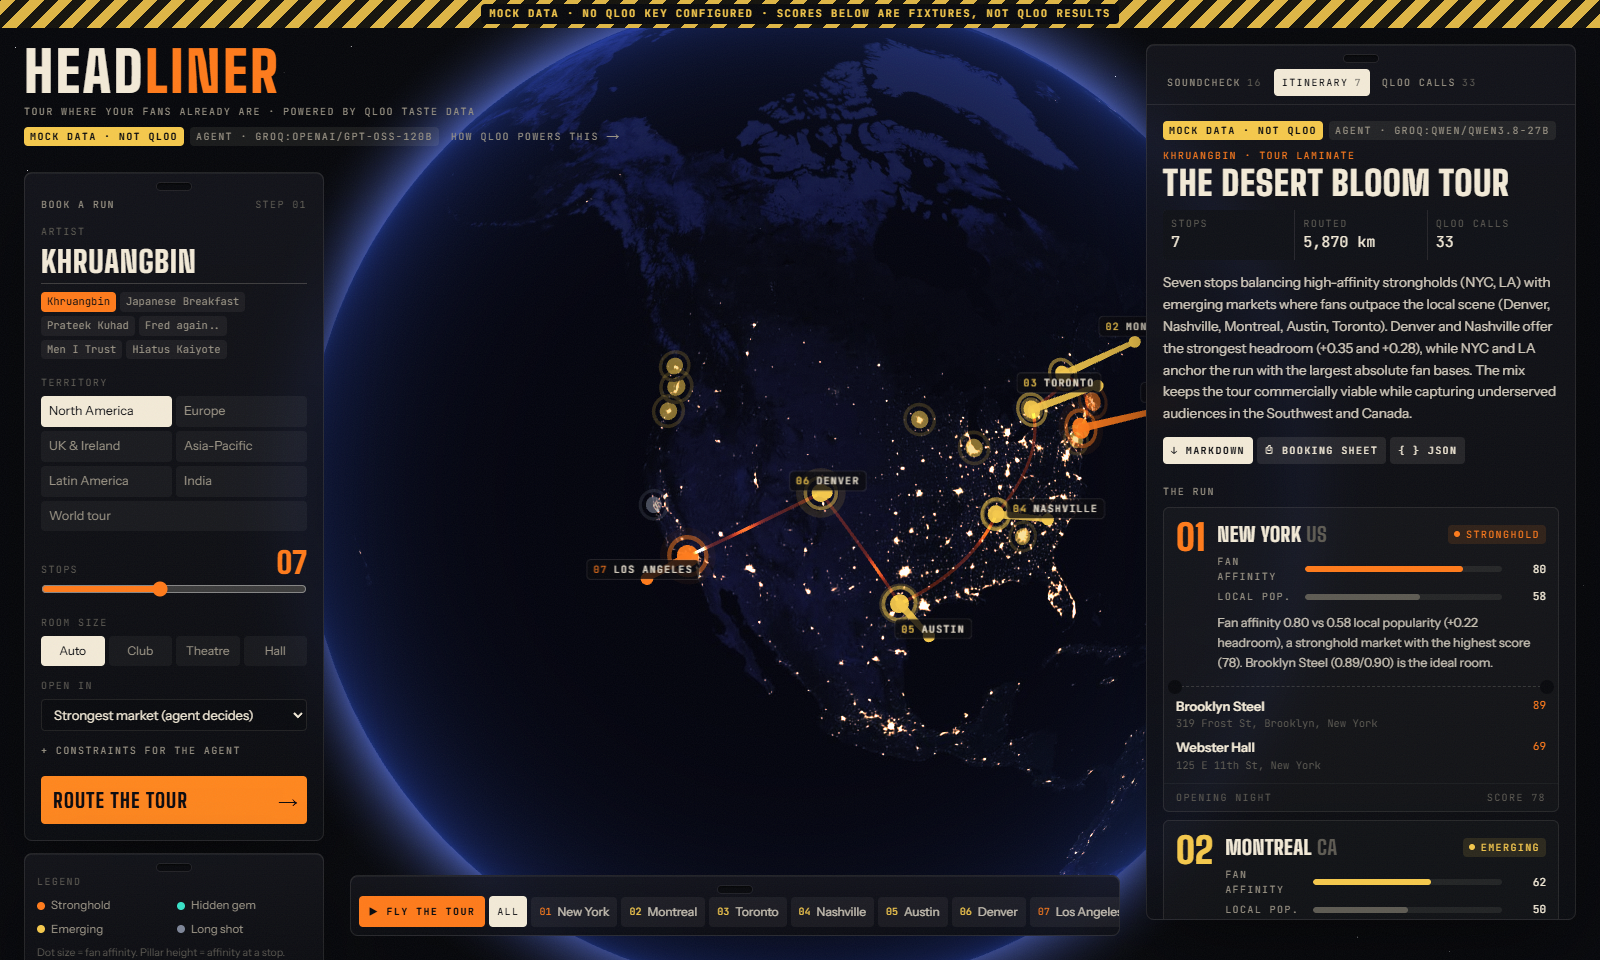
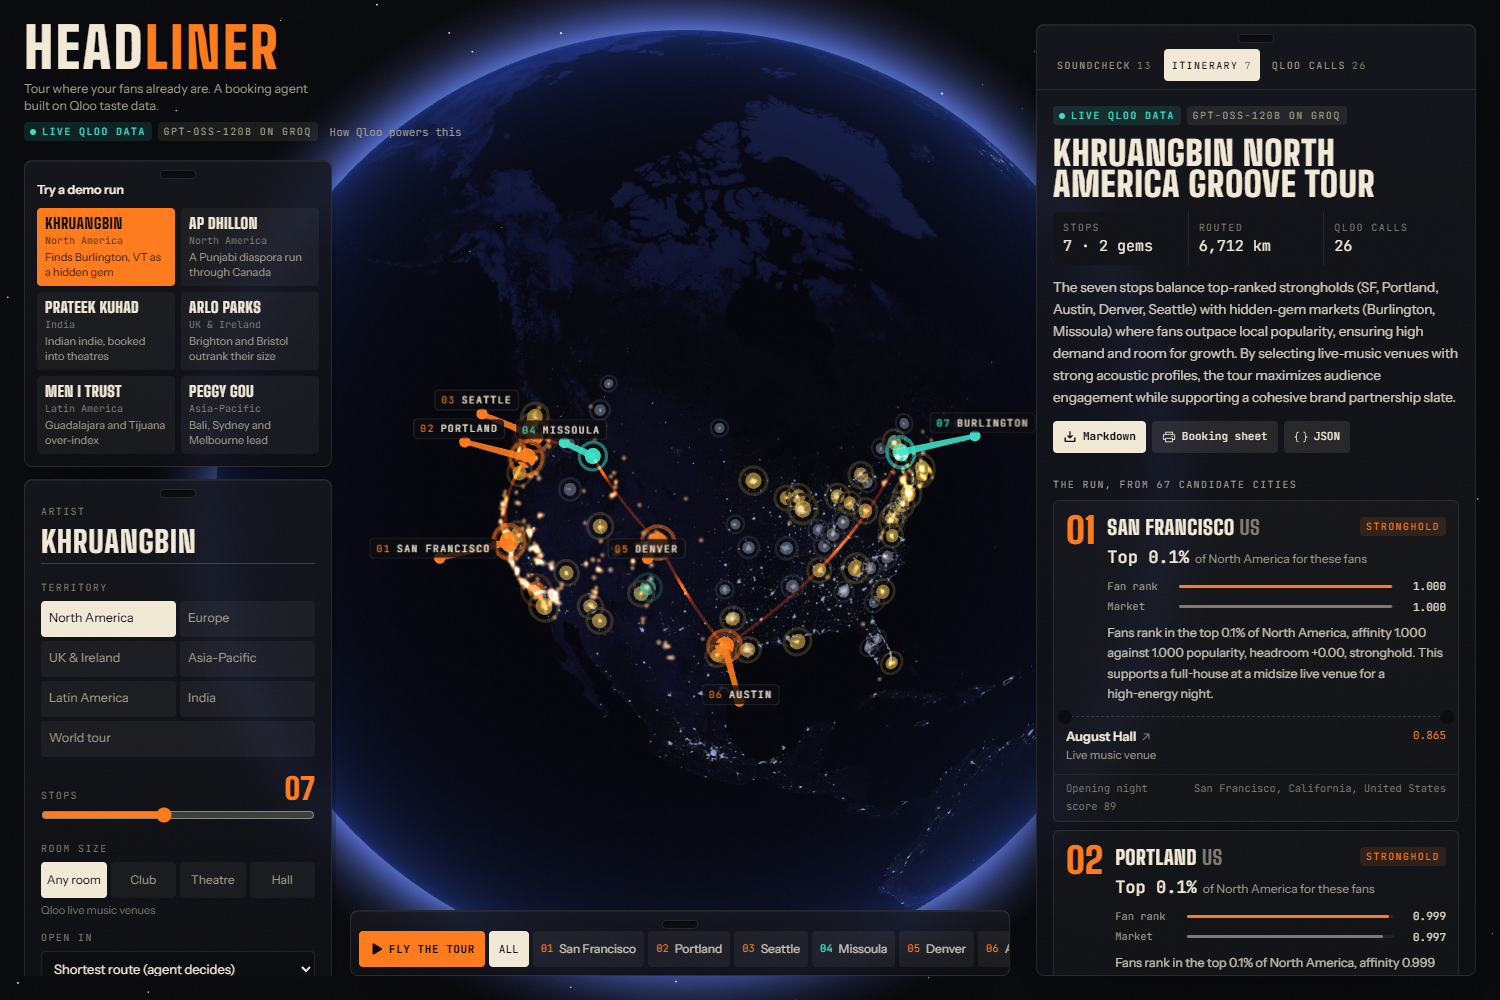
feat(globe): frame runs between their farthest stops and hold still once planned; live-data screenshots and social preview

diff --git a/src/components/globe/Globe.tsx b/src/components/globe/Globe.tsx
@@ -535,6 +535,25 @@ function CameraRig({ target, distance, idle }: { target: THREE.Vector3; distance
   return null;
 }
 
+/**
+ * Aim between the run's two farthest-apart stops (blended with the average), so a run with most stops
+ * at one end still fits in frame.
+ */
+function framingDirection(stops: GlobeStop[]): THREE.Vector3 {
+  const centroid = centroidDirection(stops);
+  const dirs = stops.map((s) => latLngToVec3(s.lat, s.lng).normalize());
+  let pair: [number, number] = [0, 0];
+  let widest = -1;
+  for (let i = 0; i < dirs.length; i++)
+    for (let j = i + 1; j < dirs.length; j++) {
+      const a = dirs[i].angleTo(dirs[j]);
+      if (a > widest) [widest, pair] = [a, [i, j]];
+    }
+  const mid = dirs[pair[0]].clone().add(dirs[pair[1]]);
+  if (stops.length < 2 || mid.lengthSq() < 1e-3) return centroid;
+  return mid.normalize().multiplyScalar(0.7).add(centroid.multiplyScalar(0.3)).normalize();
+}
+
 /** Shift the projection so the globe's centre sits in the space between the side panels. */
 function ViewOffset({ inset }: { inset?: { left: number; right: number } }) {
   const camera = useThree((s) => s.camera) as THREE.PerspectiveCamera;
@@ -557,7 +576,7 @@ function Scene({ markers, stops, heat, focusIndex, home, onSelectStop, idle, ins
       const v = latLngToVec3(focus.lat - 6, focus.lng, 1).normalize();
       return v;
     }
-    if (stops.length) return centroidDirection(stops);
+    if (stops.length) return framingDirection(stops);
     return latLngToVec3(home.lat, home.lng).normalize();
   }, [focus, stops, home.lat, home.lng]);
   // Pull back for spread-out runs (a world tour) and for narrow phone viewports.

diff --git a/src/components/Headliner.tsx b/src/components/Headliner.tsx
@@ -196,7 +196,7 @@ export default function Headliner({ qlooMode, agentLabel }: { qlooMode: "live" |
             focusIndex={focus}
             home={home}
             onSelectStop={focusStop}
-            idle={!running && focus === null}
+            idle={!running && focus === null && !plan}
             inset={desktop ? DESKTOP_INSET : undefined}
           />
           <div className="pointer-events-none absolute inset-x-0 bottom-0 h-20 bg-gradient-to-t from-night to-transparent lg:hidden" />
